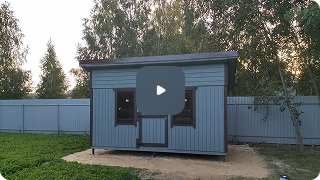
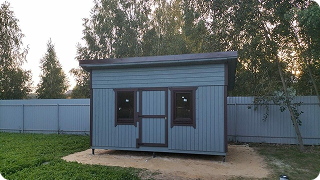
Finish

Changed region(s): [[0.4062, 0.3611, 0.5938, 0.6389]]

diff --git a/index.html b/index.html
@@ -604,6 +604,9 @@
                                     <div class="slide_item flex between">
                                         <div class="about_slide_item">
                                             <a href="#">
+                                                <div class="play_icon">
+                                                    <img src="assets/images/plays.png" alt="">
+                                                </div>
                                                 <img src="assets/images/slide_item2.png" alt="" class="slide_img">
                                             </a>
                                             <div class="slide_bottom flex between a_center">
@@ -644,6 +647,9 @@
                                     <div class="slide_item flex between">
                                         <div class="about_slide_item">
                                             <a href="#">
+                                                <div class="play_icon">
+                                                    <img src="assets/images/plays.png" alt="">
+                                                </div>
                                                 <img src="assets/images/slide_item2.png" alt="" class="slide_img">
                                             </a>
                                             <div class="slide_bottom flex between a_center">
@@ -678,7 +684,7 @@
                             </div>
                         </div>
                         <div class="about_img">
-                            <img src="assets/images/hero_home.png" alt="">
+                            <img src="assets/images/hero_home.svg" alt="">
                             <div class="slide_about flex between">
                                 <div class="slide_item flex between">
                                     <div class="about_slide_item">
@@ -703,6 +709,9 @@
                                 <div class="slide_item flex between">
                                     <div class="about_slide_item">
                                         <a href="#">
+                                            <div class="play_icon">
+                                                <img src="assets/images/plays.png" alt="">
+                                            </div>
                                             <img src="assets/images/slide_item2.png" alt="" class="slide_img">
                                         </a>
                                         <div class="slide_bottom flex between a_center">
@@ -743,6 +752,9 @@
                                 <div class="slide_item flex between">
                                     <div class="about_slide_item">
                                         <a href="#">
+                                            <div class="play_icon">
+                                                <img src="assets/images/plays.png" alt="">
+                                            </div>
                                             <img src="assets/images/slide_item2.png" alt="" class="slide_img">
                                         </a>
                                         <div class="slide_bottom flex between a_center">

diff --git a/assets/css/style.css b/assets/css/style.css
@@ -1743,6 +1743,7 @@ main .hero .slick-list.draggable {
 .about .about_img {
   width: calc(61% - 33px);
   position: relative;
+  line-height: 0;
 }
 @media (max-width: 1120px) {
   .about .about_img {
@@ -1791,6 +1792,22 @@ main .hero .slick-list.draggable {
   border-radius: 10px;
   background: #FFF;
   margin-right: 20px;
+  position: relative;
+}
+.about .slide_item a {
+  position: relative;
+}
+.about .slide_item a .play_icon {
+  position: absolute;
+  top: 0;
+  left: 0;
+  right: 0;
+  bottom: 0;
+  margin: auto;
+  z-index: 22;
+  display: block;
+  width: fit-content;
+  height: fit-content;
 }
 @media (max-width: 1650px) {
   .about .slide_item {
@@ -2388,7 +2405,7 @@ main .hero .slick-list.draggable {
   .forms .container .form_img .big_img {
     width: 600px;
     top: auto;
-    left: -40%;
+    left: -28%;
     bottom: 0;
   }
 }
@@ -2411,12 +2428,14 @@ main .hero .slick-list.draggable {
 }
 @media (max-width: 1120px) {
   .forms .container .form_img .bg_img {
-    position: static;
+    width: 110%;
+    position: relative;
   }
 }
 @media (max-width: 556px) {
   .forms .container .form_img .bg_img {
     bottom: -20px;
+    left: -20px;
   }
 }
 
@@ -3334,6 +3353,11 @@ main .hero .slick-list.draggable {
   margin-top: 6px;
   font-weight: 700;
   line-height: 90%;
+}
+@media (max-width: 556px) {
+  .modal_quiz .banner_quiz .quiz_item:first-child .banner_arrow {
+    width: 60px;
+  }
 }
 .modal_quiz .quiz_content {
   width: calc(100% - 591px);

diff --git a/assets/scss/_about.scss b/assets/scss/_about.scss
@@ -112,9 +112,11 @@
     .about_img{
         width: calc(61% - 33px);
         position: relative;
+        line-height: 0;
         @media (max-width:1120px) {
             margin-top: 20px;
             width: 100%;
+            
         }
         &:not(.mobiles){
             @media (max-width:1120px) {
@@ -154,6 +156,22 @@
         border-radius: 10px;
         background: #FFF;
         margin-right: 20px;
+        position: relative;
+        a{
+            position: relative;
+            .play_icon{
+                position: absolute;
+                top: 0;
+                left: 0;
+                right: 0;
+                bottom: 0;
+                margin: auto;
+                z-index: 22;
+                display: block;
+                width: fit-content;
+                height: fit-content;
+            }
+        }
         @media (max-width:1650px) {
             padding:39px 40px;
         }

diff --git a/assets/scss/_forms.scss b/assets/scss/_forms.scss
@@ -202,7 +202,7 @@
                 @media (max-width:1400px) {
                     width: 600px;
                     top: auto;
-                    left: -40%;
+                    left: -28%;
                     bottom: 0;
                 }
                 @media (max-width:768px) {
@@ -219,10 +219,12 @@
                    width: 100%;
                 }
                 @media (max-width:1120px) {
-                    position: static;
+                    width: 110%;
+                    position: relative;
                 }
                 @media (max-width:556px) {
                     bottom: -20px;
+                    left: -20px;
                 }
             }
         }

diff --git a/assets/scss/_quiz.scss b/assets/scss/_quiz.scss
@@ -115,6 +115,13 @@
                     line-height: 90%;
                 }
             }
+            &:first-child{
+                .banner_arrow{
+                    @media (max-width:556px) {
+                        width: 60px;
+                    }
+                }
+            }
             
         }
     }
